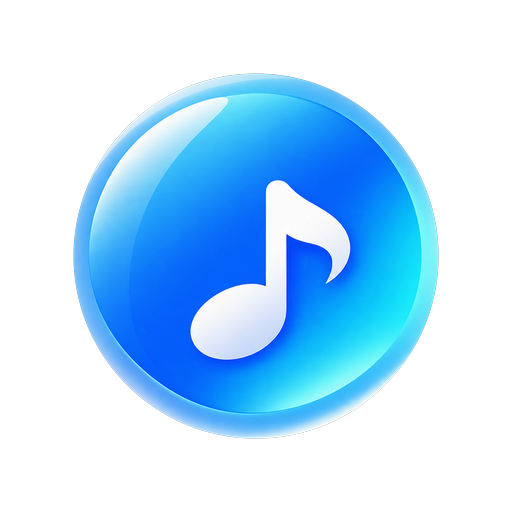
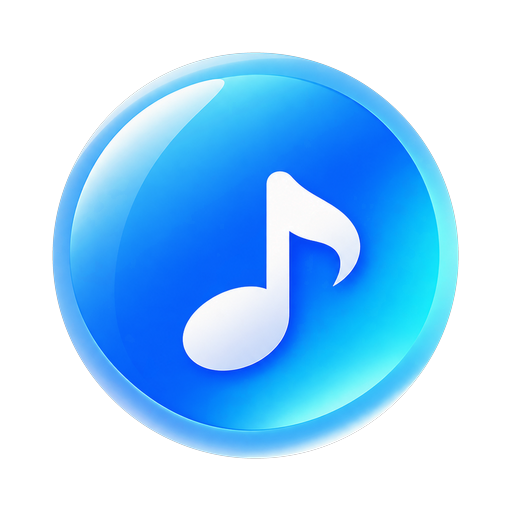
deploy: 同步壳 PWA 源码（2026-11-18 14:21）

Changed region(s): [[0.0938, 0.0938, 0.9062, 0.9062], [0.4062, 0.5625, 0.4688, 0.5938], [0.375, 0.5938, 0.4062, 0.625]]

diff --git a/sw.js b/sw.js
@@ -1,6 +1,6 @@
 // 最小 Service Worker：仅为满足 Chrome PWA 安装条件（需注册 + fetch handler）。
 // 壳页自身离线兜底；Tabliss iframe 的请求照常走网络，不缓存。
-const SHELL = 'tabliss-shell-v8';   // v8：图标文件改名 appicon-*（旧 URL 被 Chrome HTTP 缓存锁死旧图，换 URL 强制重拉）
+const SHELL = 'tabliss-shell-v9';   // v8：图标放大至画布80%（72%→80%，任务栏观感增大）
 const SHELL_FILES = ['index.html', 'pwa.json', 'appicon-192.png', 'appicon-512.png'];
 
 self.addEventListener('install', (e) => {

diff --git a/README.md b/README.md
@@ -73,7 +73,17 @@ Tabliss 的配置导入是**基于文件**的（bundle 里只有 FileReader/Blob
 - 应用窗口内点击壁纸不会触发浏览器页面跳转（iframe 隔离），点唱机的外点最小化用「点击盾」实现同一效果（脚本 v1.2.48 起）
 - 地址栏导航不受任何脚本控制（浏览器限制）
 - GitHub Pages 有约 10 分钟 CDN 缓存，更新文件后若「没变化」先强刷（Ctrl+Shift+R）
-- Chrome 安装型 PWA 的图标/名称在安装时固化，改动需卸载重装
+
+## 图标更新指南（2026-11-18 实战踩坑，v3→v8 六轮迭代）
+
+任务栏/窗口图标有一条固化链，**改线上图标文件只是第一步**，四层缓存按序处理：
+
+1. **Chrome HTTP 缓存锁旧图（死结）**：manifest 图标 URL 不变时，重装 PWA 也只会从 Chrome 缓存拿旧 PNG 重新生成旧 ICO——手动改文件会被 Chrome 校验（`.ico.md5` 伴生文件，二进制 md5）后重新拉取覆盖。**根治 = 图标文件换新 URL**（本次 icon-\* → appicon-\*，manifest/favicon/SW/deploy.sh 同步改），URL 变了缓存必然失效
+2. **Chrome 进程内存**：运行中 PWA 窗口的任务栏图标由 Chrome 进程动态提供（不走快捷方式），必须**完全退出 Chrome**（`taskkill /F /IM chrome.exe`，桌面版 Chrome 有 23 个进程含后台常驻，关窗口不够）后冷启动才重新读盘
+3. **Chrome 图标缓存残留**：`User Data/Default/Web Applications/_crx_<appid>/`（ICO+md5）、`Web Applications/Manifest Resources/<appid>/`（manifest 图标副本）、`JumpListIcons*`——冷启动前删掉对应部分
+4. **Windows 图标缓存**：`%LOCALAPPDATA%\IconCache.db` + `%LOCALAPPDATA%\Microsoft\Windows\Explorer\iconcache_*.db`。**坑：WSL 调 `cmd /c "del %LOCALAPPDATA%\..."` 会静默失败**（变量展开/文件锁，错误被 2>nul 吞掉，文件实际没删），必须 kill explorer 后用 WSL `rm` 直接删并 `ls` 验证为 0，再启动 explorer
+
+图标本体规格：从原始 music.png 用正圆蒙版（半径取球体实边 404，蒙版边必须落在实心球内，贴光晕过渡带会出现「圆旁多余蓝色」）抠出球体去光晕，占画布 80% 居中，透明底。Chrome 安装时将 PNG 转 ICO（多尺寸 16-256）存入 `_crx_<appid>/`。
 
 ## 相关
 
